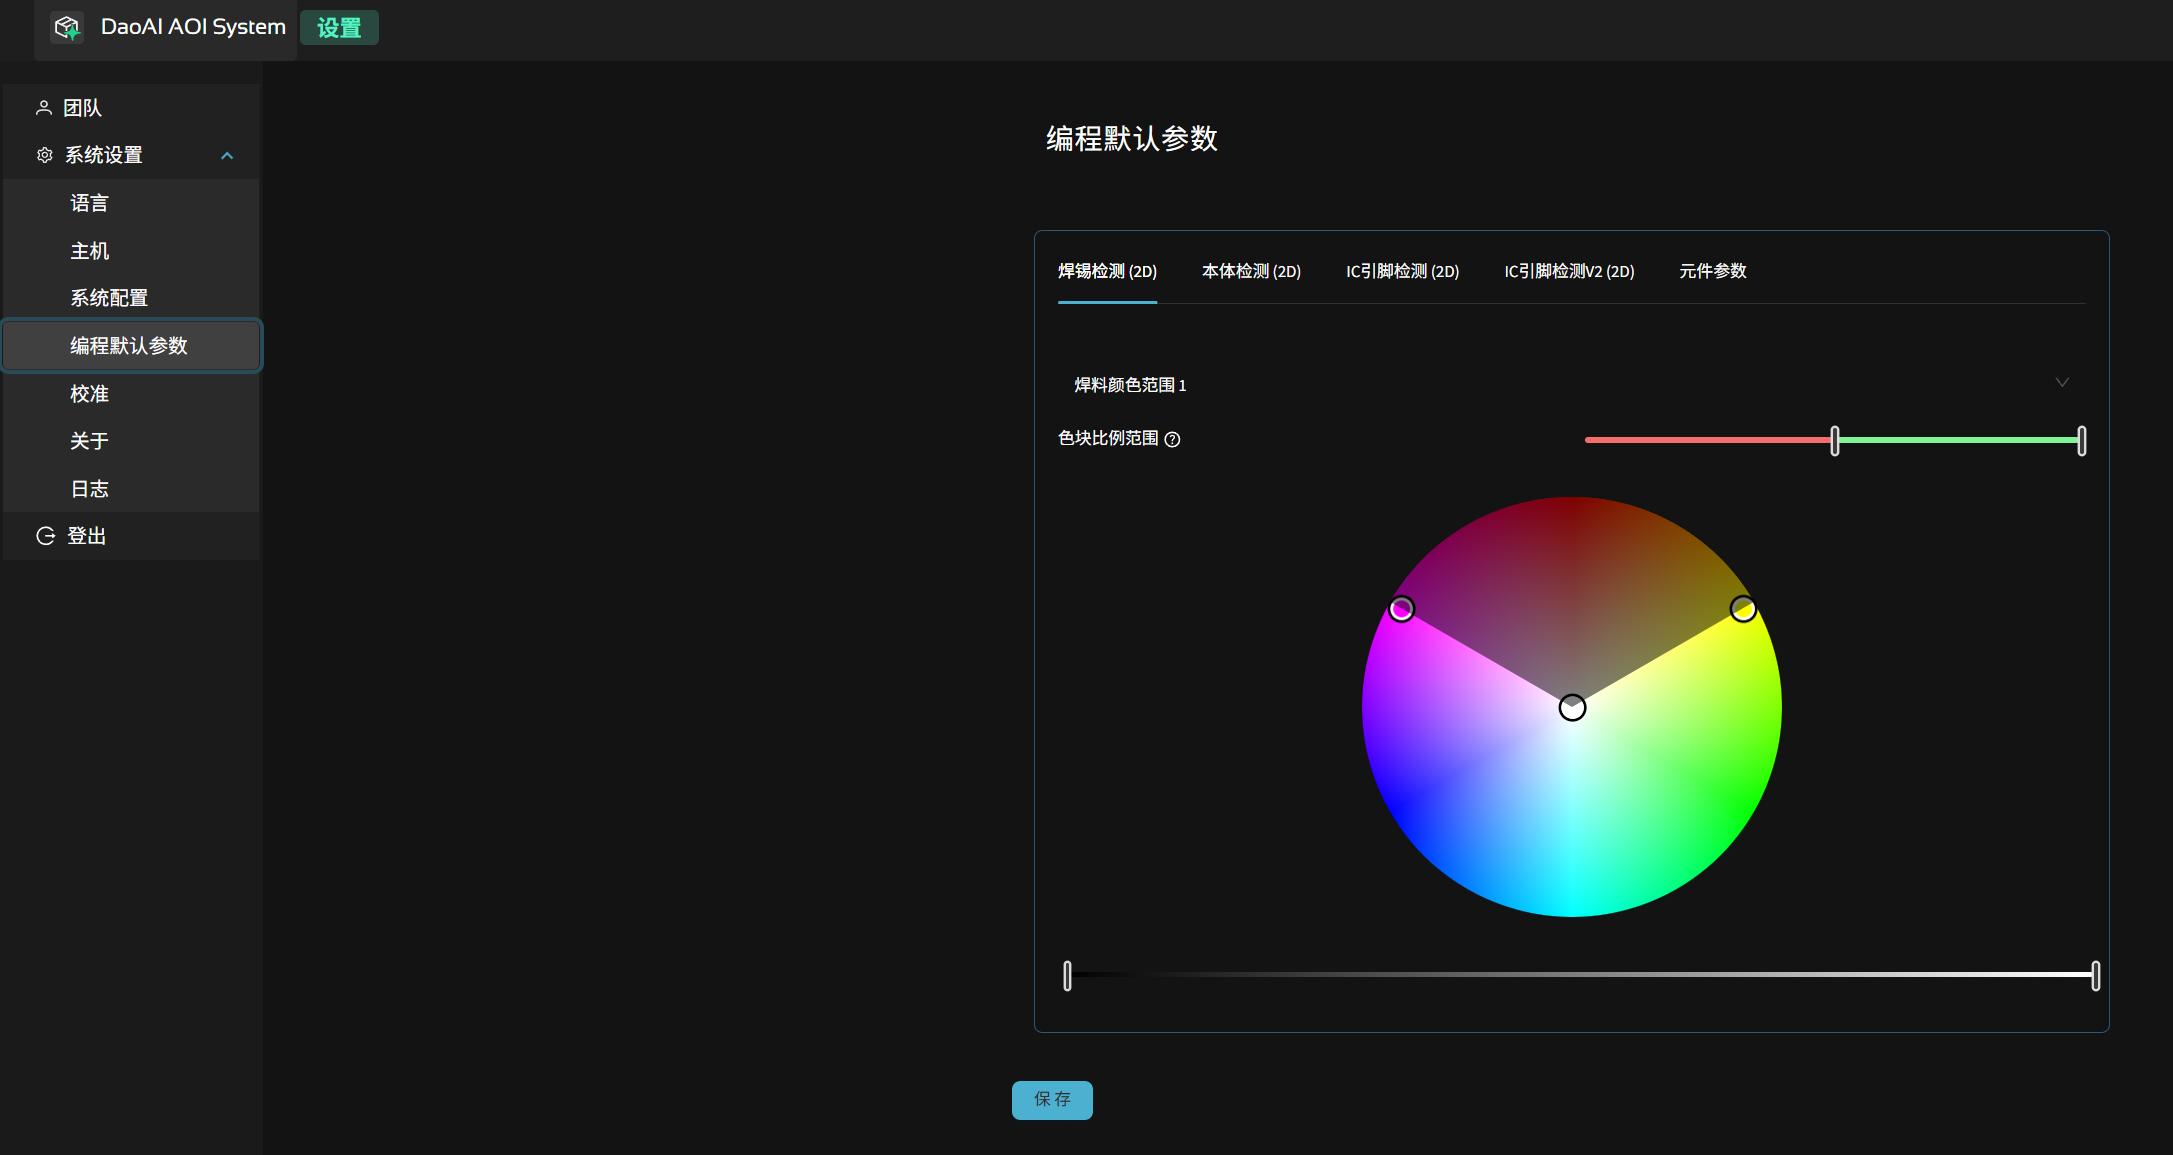
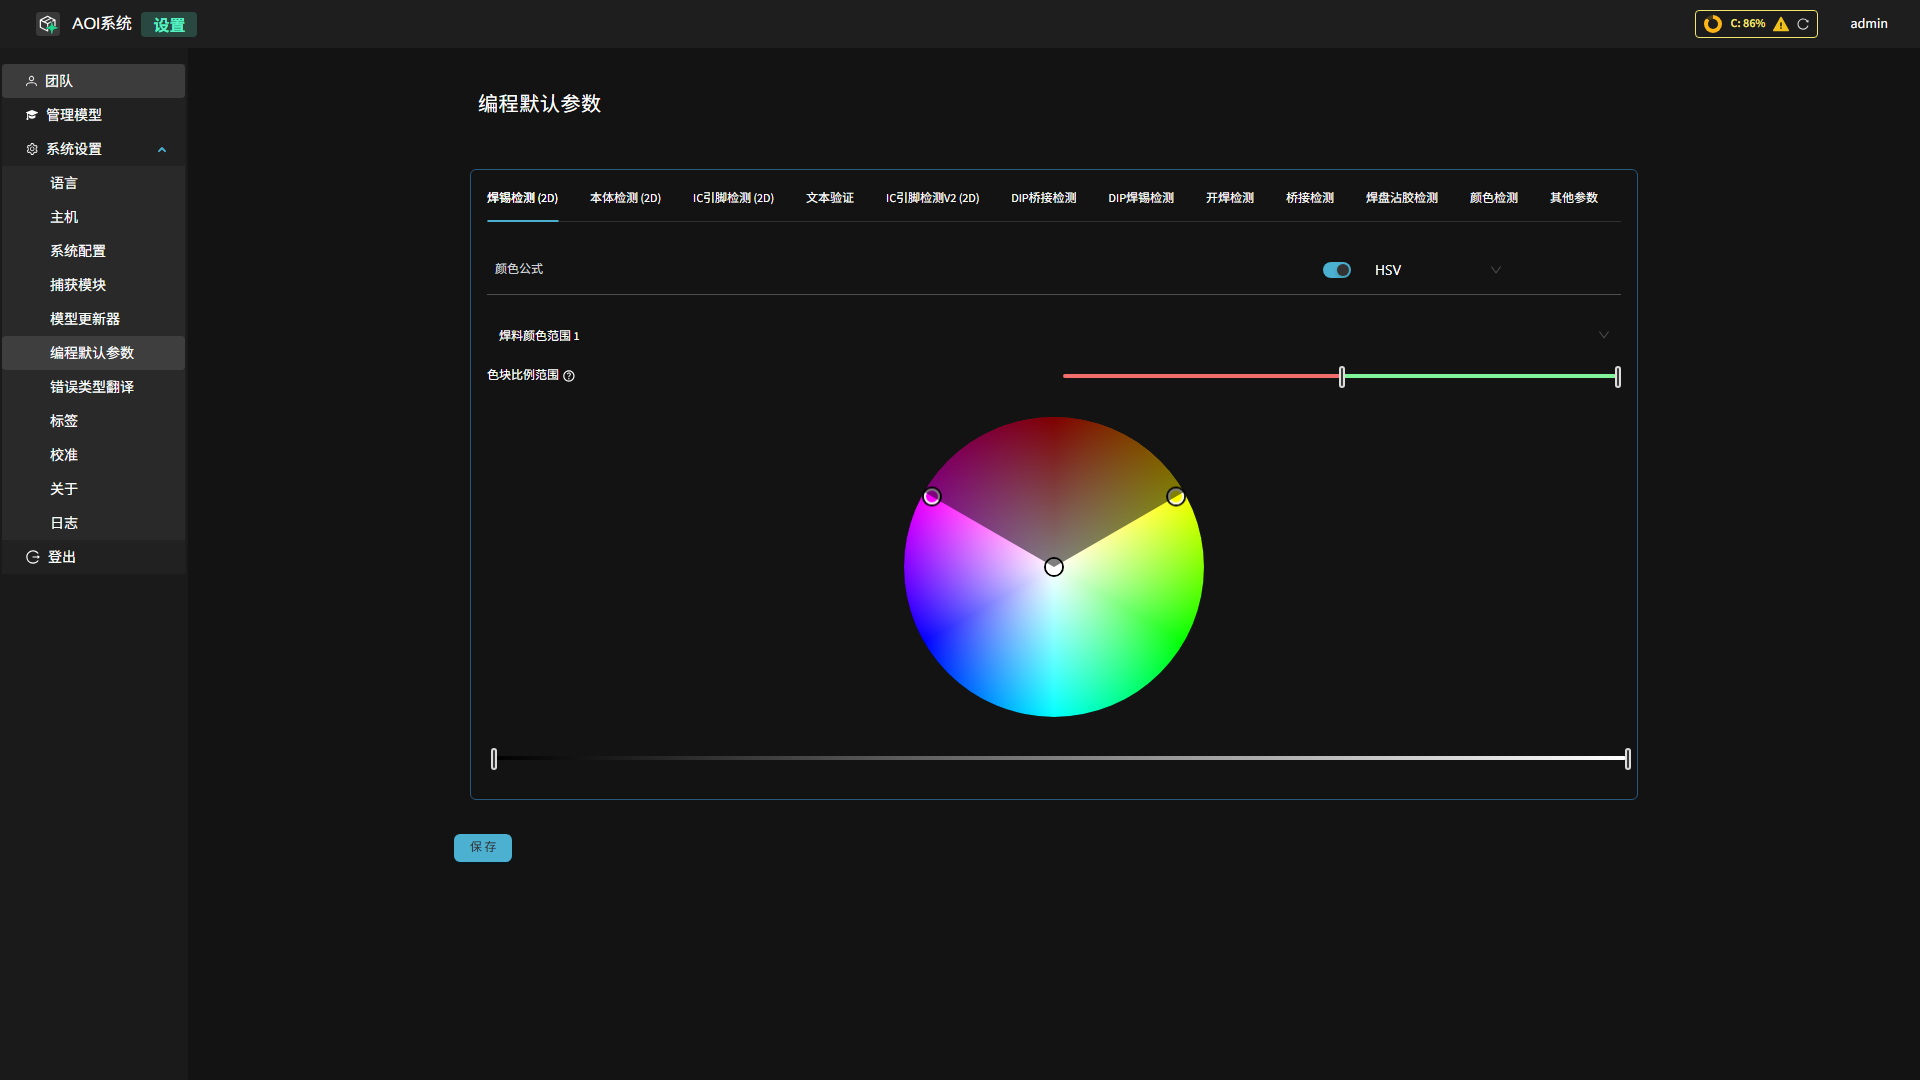
docs(phase4b): re-capture toolbar + settings; add mark-point example crop
Successful captures in this Phase 4b round:
  - features/images/manual_tools.png  — re-captured: found the actual antd
    Segmented draw-tool toolbar via a more robust .ant-segmented-item-count
    selector; shows all 10+ tool icons stacked vertically. (Previous
    fallback grab was the wrong area; reverted there, fixed here.)
  - system_management/images/default_program_params.PNG — re-captured: the
    earlier nav failed because 系统设置 sidebar item was collapsed; now
    expand it first then click 编程默认参数. Shows full page with the
    12 inspection-type tabs across the top + 焊锡检测 (2D) HSV color
    picker active.
  - features/images/mark_point_example.png — new, for the new
    mark_align_pcb page. Tight central crop on the 标记/对齐PCB canvas.
    (Placeholder converted to live .. image:: directive.)

Phase 4b detection-tool tight crops (bridge/color/dip_solder/glue_on_pad/
mounting/lead_2d_v2/text + extras) attempted via toolbar-segmented click +
mouse-drag draw, but the drags did NOT result in visible drawn ROIs on
the fabric.js canvas — likely because the antd Segmented click on the
outer wrapper did not flip the React draw-mode state cleanly. The 9
attempted PNGs were reverted (would have been a regression on the
existing tool images). Reattempting these requires either:
  (a) clicking the inner .ant-segmented-item-input (the hidden radio),
      OR (b) using keyboard shortcuts to enter draw mode + larger drags.
Deferred.
[…]

diff --git a/docs/source/complete_user_guide/features/mark_align_pcb.rst b/docs/source/complete_user_guide/features/mark_align_pcb.rst
@@ -31,7 +31,9 @@
 
 至少需要 **2 个 mark 点**\ （推荐 2~4 个，分布在 PCB 的对角位置）才能进行二维定位。
 
-.. screenshot-todo: images/mark_point_example.png — 圆形 mark 点示例及定位结果
+.. image:: images/mark_point_example.png
+   :scale: 70%
+   :alt: 标记 / 对齐 PCB 画布上的 mark 点位置示意
 
 **独特标记（unique marker）**
 